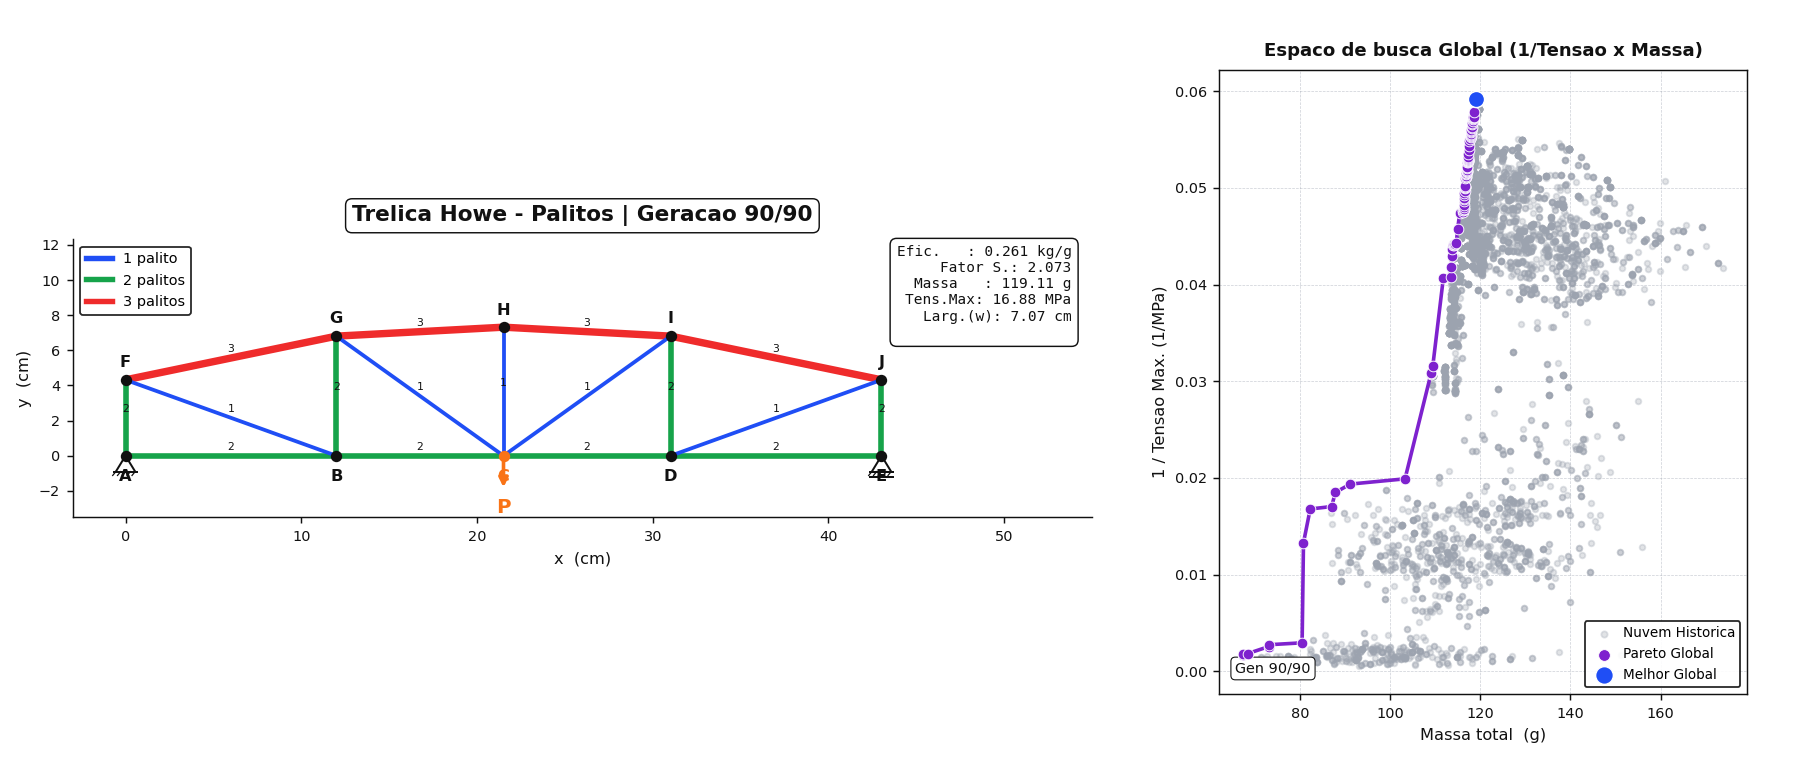
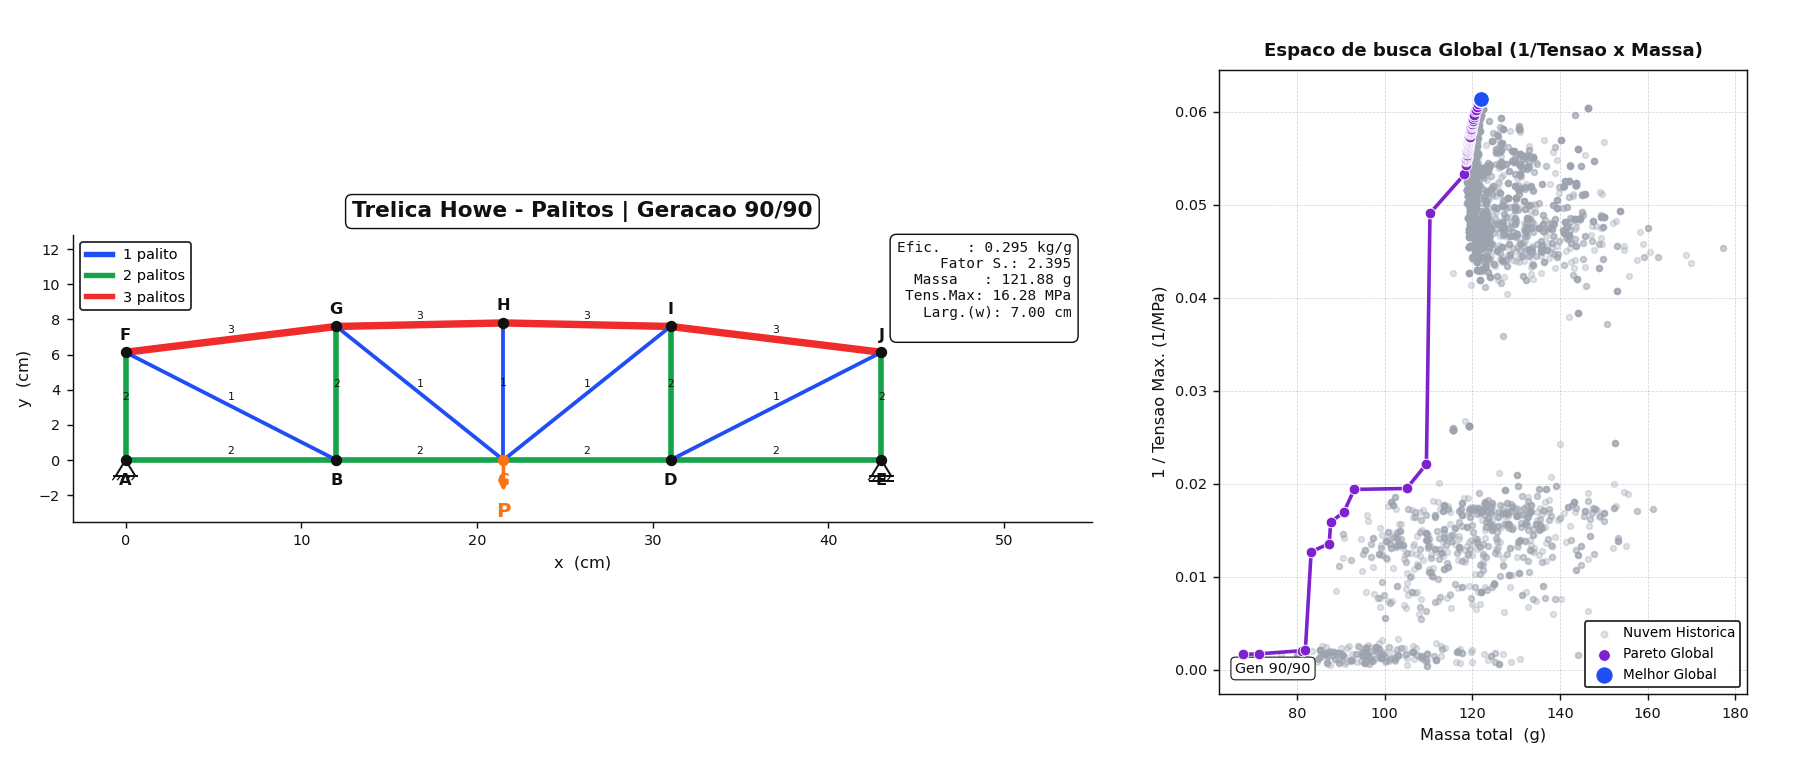
testes para o modulo de elasticidade, tração e compressão

diff --git a/app/truss_ag.py b/app/truss_ag.py
@@ -33,9 +33,9 @@ class TrussAG:
         self.T_SECTION_M = 0.0017
         self.SOBREPOSICAO_CM = 4.0
         self.RHO = 510.0
-        self.E_PA = 3.5e9
-        self.SIGMA_T_YIELD = 55e6
-        self.SIGMA_C_YIELD = 35e6
+        self.E_PA = 3.73e9
+        self.SIGMA_T_YIELD = 65.5e6
+        self.SIGMA_C_YIELD = 39e6
         self.P0_MIN, self.P0_MAX = 10.0, 12.0  # painéis externos AB e DE: corte = p + 2 ≤ 14
         self.P1_MIN, self.P1_MAX = 7.0, 10.0   # painéis internos BC e CD: corte = p + 4 ≤ 14
         self.H_MIN, self.H_MAX = 3.0, 7.8
